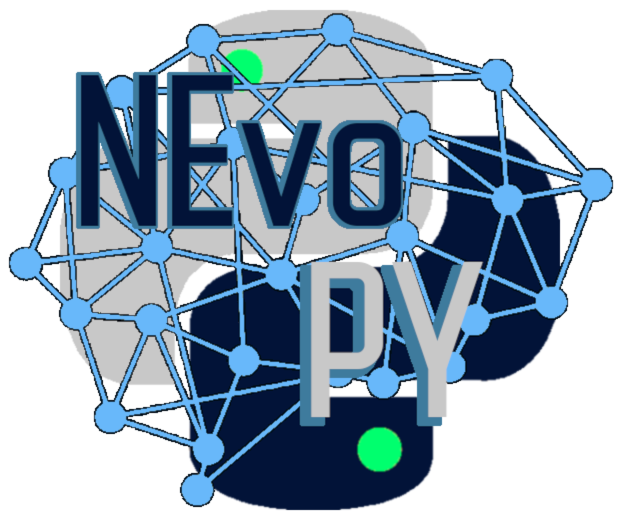
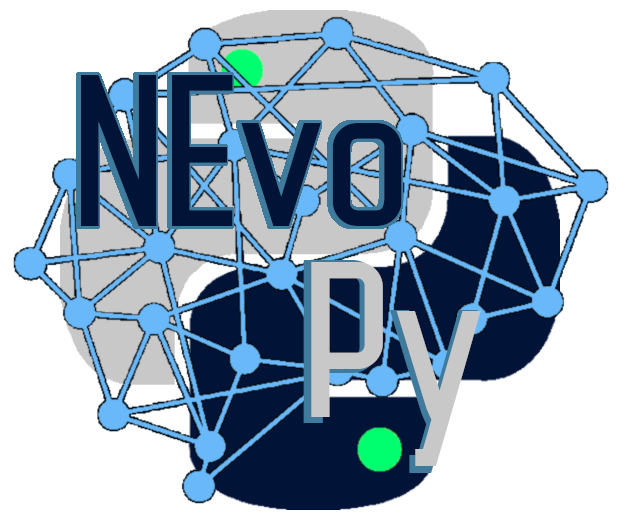
Update pkg name

diff --git a/nevopy/base_genome.py b/nevopy/base_genome.py
@@ -27,7 +27,7 @@ In the context of neuroevolution, a genome is the entity subject to the
 evolutionary process. It encodes a neural network (the genome's phenotype),
 either directly or indirectly. This module declares the base abstract class that
 must be inherited by all the different classes of genomes used by the
-neuroevolutionary algorithms in `NEvoPY`.
+neuroevolutionary algorithms in `NEvoPy`.
 """
 
 from abc import ABC, abstractmethod
@@ -38,10 +38,10 @@ from nevopy.utils.utils import pickle_save
 
 
 class BaseGenome(ABC):
-    """ Defines the general behaviour of a genome in `NEvoPY`.
+    """ Defines the general behaviour of a genome in `NEvoPy`.
 
     This class must be inherited by all the different classes of genomes present
-    in `NEvoPY`
+    in `NEvoPy`
 
     In the context of neuroevolution, a genome is the entity subject to the
     evolutionary process. It encodes a neural network (the genome's phenotype),
@@ -55,8 +55,8 @@ class BaseGenome(ABC):
 
     One of the goals of this base abstract class is to abstract these details
     for the user, defining a general interface for different types of genomes
-    used by the different neuroevolutionary algorithms in `NEvoPY`. Generally,
-    for `NEvoPY`, there is no distinction between a genome and the network it
+    used by the different neuroevolutionary algorithms in `NEvoPy`. Generally,
+    for `NEvoPy`, there is no distinction between a genome and the network it
     encodes.
 
     A genome must be capable of processing inputs based on its nodes and

diff --git a/nevopy/callbacks.py b/nevopy/callbacks.py
@@ -23,7 +23,7 @@
 
 """ Defines a base interface for all callbacks and implements simple callbacks.
 
-For NEvoPY, callbacks are utilities called at certain points during the
+For NEvoPy, callbacks are utilities called at certain points during the
 evolution of a population. They are a powerful tool to customize the behavior of
 a neuroevolutionary algorithm.
 
@@ -71,14 +71,14 @@ _logger = logging.getLogger(__name__)
 class Callback(ABC):
     """ Abstract base class used to build new callbacks.
 
-    This class defines the general structure of the callbacks used by `NEvoPY's`
+    This class defines the general structure of the callbacks used by `NEvoPy's`
     neuroevolutionary algorithms. It's not required for a subclass to implement
     all the methods of this class (you can implement only those that will be
     useful for your case).
 
     Attributes:
         population (Population): Reference to the instance of a subclass of
-            :class:`.Population` being evolved by one of `NEvoPY's`
+            :class:`.Population` being evolved by one of `NEvoPy's`
             neuroevolutionary algorithms.
     """
 

diff --git a/nevopy/processing/base_scheduler.py b/nevopy/processing/base_scheduler.py
@@ -24,7 +24,7 @@
 """ Defines a common interface for processing schedulers.
 
 This module contains a base model for a processing scheduler, the entity
-responsible for managing the computation of a population's fitness in `NEvoPY's`
+responsible for managing the computation of a population's fitness in `NEvoPy's`
 algorithms. Schedulers allow the implementation of the computation methods (like
 the use of serial or parallel processing) to be separated from the
 implementation of the neuroevolutionary algorithms.
@@ -47,7 +47,7 @@ TProcResult = TypeVar("TProcResult")
 class ProcessingScheduler(ABC):
     """ Defines a common interface for processing schedulers.
 
-    In `NEvoPY`, a processing scheduler is responsible for managing the
+    In `NEvoPy`, a processing scheduler is responsible for managing the
     computation of the fitness of a population of individuals being evolved.
     This abstract class defines a common interface for processing schedulers
     used by different algorithms. Schedulers allow the implementation of the

diff --git a/nevopy/neat/population.py b/nevopy/neat/population.py
@@ -23,7 +23,7 @@
 
 """ Implementation of the main mechanisms of the NEAT algorithm.
 
-This is the main module of `NEvoPY's` implementation of the NEAT algorithm. It
+This is the main module of `NEvoPy's` implementation of the NEAT algorithm. It
 implements the :class:`.NeatPopulation` class, which handles the evolution of a
 population/community of NEAT genomes.
 """
@@ -50,7 +50,7 @@ from nevopy.processing.pool_processing import PoolProcessingScheduler
 class NeatPopulation(Population):
     """ Population of individuals (genomes) to be evolved by the NEAT algorithm.
 
-    Main class of `NEvoPY's` implementation of the NEAT algorithm. It represents
+    Main class of `NEvoPy's` implementation of the NEAT algorithm. It represents
     a population of individuals (genomes) to be evolved. The correct term, in
     NEAT's case, is actually "community" (group of populations of two or more
     different species) rather than "population" (subset of individuals of one

diff --git a/nevopy/fixed_topology/config.py b/nevopy/fixed_topology/config.py
@@ -22,14 +22,14 @@
 # ==============================================================================
 
 """ This module implements the :class:`.FixedTopologyConfig` class, used to
-handle the settings of `NEvoPY's` fixed-topology neuroevolutionary algorithms.
+handle the settings of `NEvoPy's` fixed-topology neuroevolutionary algorithms.
 """
 
 from typing import Dict
 
 
 class FixedTopologyConfig:
-    """ Stores the settings of `NEvoPY's` fixed-topology NE algorithms.
+    """ Stores the settings of `NEvoPy's` fixed-topology NE algorithms.
 
     Individual configurations can be ignored (default values will be used), set
     in the arguments of this class constructor or written in a file (pathname

diff --git a/setup.py b/setup.py
@@ -21,9 +21,9 @@
 # SOFTWARE.
 # ==============================================================================
 
-""" NEvoPY is an open source neuroevolution framework for Python.
+""" NEvoPy is an open source neuroevolution framework for Python.
 
-NEvoPY is an open source software library that implements high-performance
+NEvoPy is an open source software library that implements high-performance
 neuroevolution algorithms. It's flexible, easy to deploy and compatible with
 large-scale distributed computing. It's been originally developed by Gabriel
 Guedes Nogueira (Talendar).

diff --git a/nevopy/neat/genomes.py b/nevopy/neat/genomes.py
@@ -902,7 +902,7 @@ class NeatGenome(BaseGenome):
         * The `graphviz` layout; it's really good, but to use it you must
           have `Graphviz-Dev` and `pygraphviz` installed on your machine;
         * The `columns` layout (used by default), implemented exclusively for
-          `NEvoPY`; it positions the nodes in columns (see
+          `NEvoPy`; it positions the nodes in columns (see
           :meth:`.NeatGenome.columns_graph_layout`, specially the parameter
           ``ideal_h_nodes_per_col``).
 

diff --git a/nevopy/fixed_topology/layers/tf_layers.py b/nevopy/fixed_topology/layers/tf_layers.py
@@ -43,7 +43,7 @@ from nevopy.fixed_topology.layers.base_layer import IncompatibleLayersError
 class TensorFlowLayer(BaseLayer):
     """ Wraps a `TensorFlow` layer.
 
-    This class wraps a `TensorFlow` layer, making it compatible with `NEvoPY's`
+    This class wraps a `TensorFlow` layer, making it compatible with `NEvoPy's`
     neuroevolutionary algorithms. It handles the mutation and reproduction of
     the `TensorFlow` layer.
 

diff --git a/nevopy/base_population.py b/nevopy/base_population.py
@@ -41,7 +41,7 @@ class Population(ABC, Generic[TGenome]):
 
     This base abstract class defines a population of genomes (each of which
     encodes a neural network) to be evolved through neuroevolution. It's in this
-    class' subclasses where the core of `NEvoPY's` neuroevolutionary algorithms
+    class' subclasses where the core of `NEvoPy's` neuroevolutionary algorithms
     will be implemented.
 
     Args:

diff --git a/examples/mario/mario_imgs.py b/examples/mario/mario_imgs.py
@@ -226,7 +226,7 @@ if __name__ == "__main__":
     # start
     pop = best = None
     while True:
-        key = int(input("\n\n< Learning Mario with NEvoPY >\n"
+        key = int(input("\n\n< Learning Mario with NEvoPy >\n"
                         "   [1] New population\n"
                         "   [2] Load population\n"  
                         "   [3] Visualize best genome\n"

diff --git a/examples/mario/mario_ram.py b/examples/mario/mario_ram.py
@@ -178,7 +178,7 @@ if __name__ == "__main__":
     # start
     pop = best = None
     while True:
-        key = int(input("\n\n< Learning Mario with NEvoPY >\n"
+        key = int(input("\n\n< Learning Mario with NEvoPy >\n"
                         "   [1] New population\n"
                         "   [2] Load population\n"  
                         "   [3] Visualize best genome\n"

diff --git a/nevopy/neat/id_handler.py b/nevopy/neat/id_handler.py
@@ -51,7 +51,7 @@ class IdHandler:
     Thus, there is no resultant explosion of innovation numbers." -
     :cite:`stanley:ec02`
 
-    In `NEvoPY`, it's possible to configure the rate at which innovation numbers
+    In `NEvoPy`, it's possible to configure the rate at which innovation numbers
     are reset (see :attr:`.NeatConfig.reset_innovations_period`).
 
     Warning:
